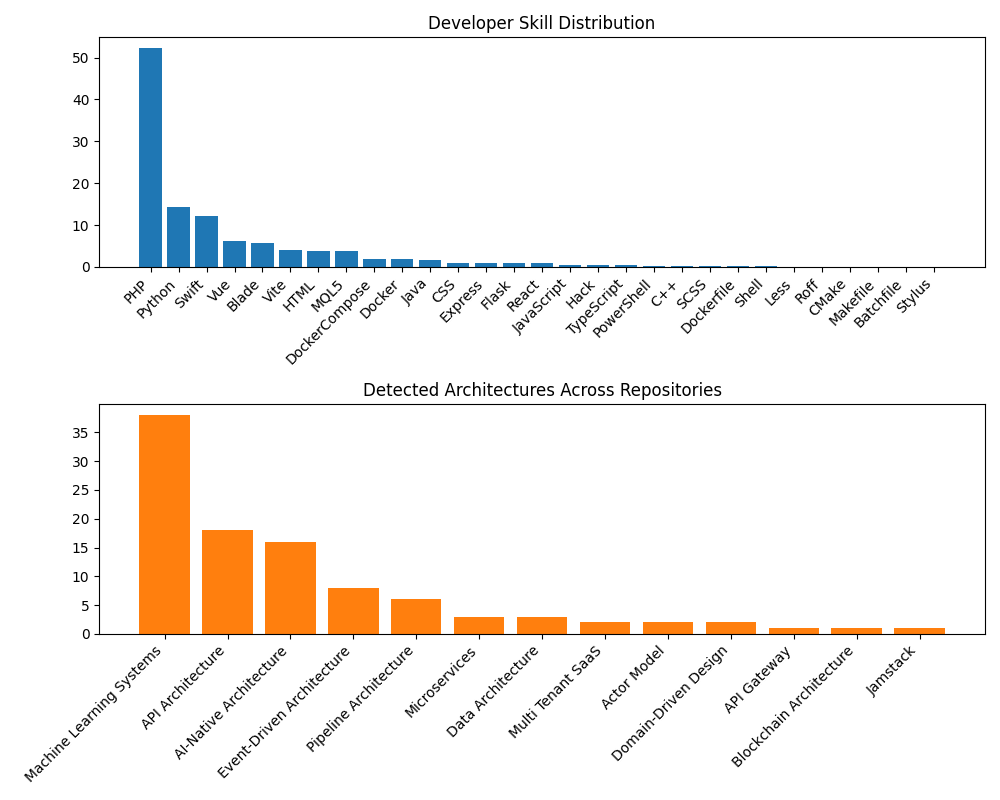
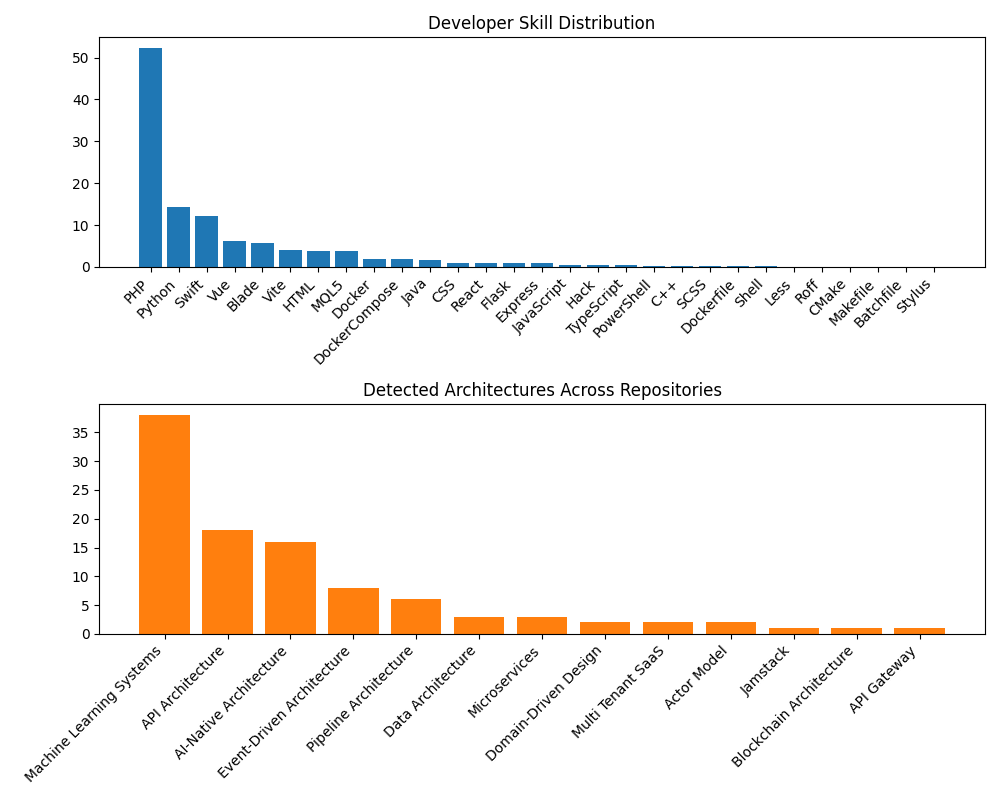
Update portfolio from github-intel-service

diff --git a/index.html b/index.html
@@ -999,7 +999,7 @@ button {
         </article>
       <article class="card">
           <h3 class="card-title">Web Frameworks</h3>
-          <div class="badges"><span class="badge">DockerCompose</span><span class="badge">Express</span><span class="badge">Flask</span><span class="badge">Stylus</span></div>
+          <div class="badges"><span class="badge">DockerCompose</span><span class="badge">Flask</span><span class="badge">Express</span><span class="badge">Stylus</span></div>
         </article>
       <article class="card">
           <h3 class="card-title">Backend as a Service</h3>
@@ -1073,14 +1073,14 @@ button {
       <span class="skill-distribution-pct">3.8%</span>
     </div>
 <div class="skill-distribution-row">
-      <span class="skill-distribution-label">DockerCompose</span>
+      <span class="skill-distribution-label">Docker</span>
       <div class="skill-distribution-bar-wrap">
         <div class="skill-distribution-bar" style="width: 4%"></div>
       </div>
       <span class="skill-distribution-pct">2.0%</span>
     </div>
 <div class="skill-distribution-row">
-      <span class="skill-distribution-label">Docker</span>
+      <span class="skill-distribution-label">DockerCompose</span>
       <div class="skill-distribution-bar-wrap">
         <div class="skill-distribution-bar" style="width: 4%"></div>
       </div>
@@ -1101,7 +1101,7 @@ button {
       <span class="skill-distribution-pct">1.1%</span>
     </div>
 <div class="skill-distribution-row">
-      <span class="skill-distribution-label">Express</span>
+      <span class="skill-distribution-label">React</span>
       <div class="skill-distribution-bar-wrap">
         <div class="skill-distribution-bar" style="width: 2%"></div>
       </div>

diff --git a/README.md b/README.md
@@ -20,14 +20,14 @@ Senior Systems Architect Backend Engineer Senior Systems Architect & Backend Eng
 | AI-Native Architecture | 16 | 24.2% |
 | Event-Driven Architecture | 8 | 12.1% |
 | Pipeline Architecture | 6 | 9.1% |
-| Microservices | 3 | 4.5% |
 | Data Architecture | 3 | 4.5% |
+| Microservices | 3 | 4.5% |
+| Domain-Driven Design | 2 | 3.0% |
 | Multi Tenant SaaS | 2 | 3.0% |
 | Actor Model | 2 | 3.0% |
-| Domain-Driven Design | 2 | 3.0% |
-| API Gateway | 1 | 1.5% |
-| Blockchain Architecture | 1 | 1.5% |
 | Jamstack | 1 | 1.5% |
+| Blockchain Architecture | 1 | 1.5% |
+| API Gateway | 1 | 1.5% |
 
 ---
 ## Technical skills
@@ -44,7 +44,7 @@ Senior Systems Architect Backend Engineer Senior Systems Architect & Backend Eng
 *Vue* · *React*
 
 **Other**  
-*DockerCompose* · *Express* · *Flask* · *Stylus*
+*DockerCompose* · *Flask* · *Express* · *Stylus*
 
 ---
 ## Skill distribution
